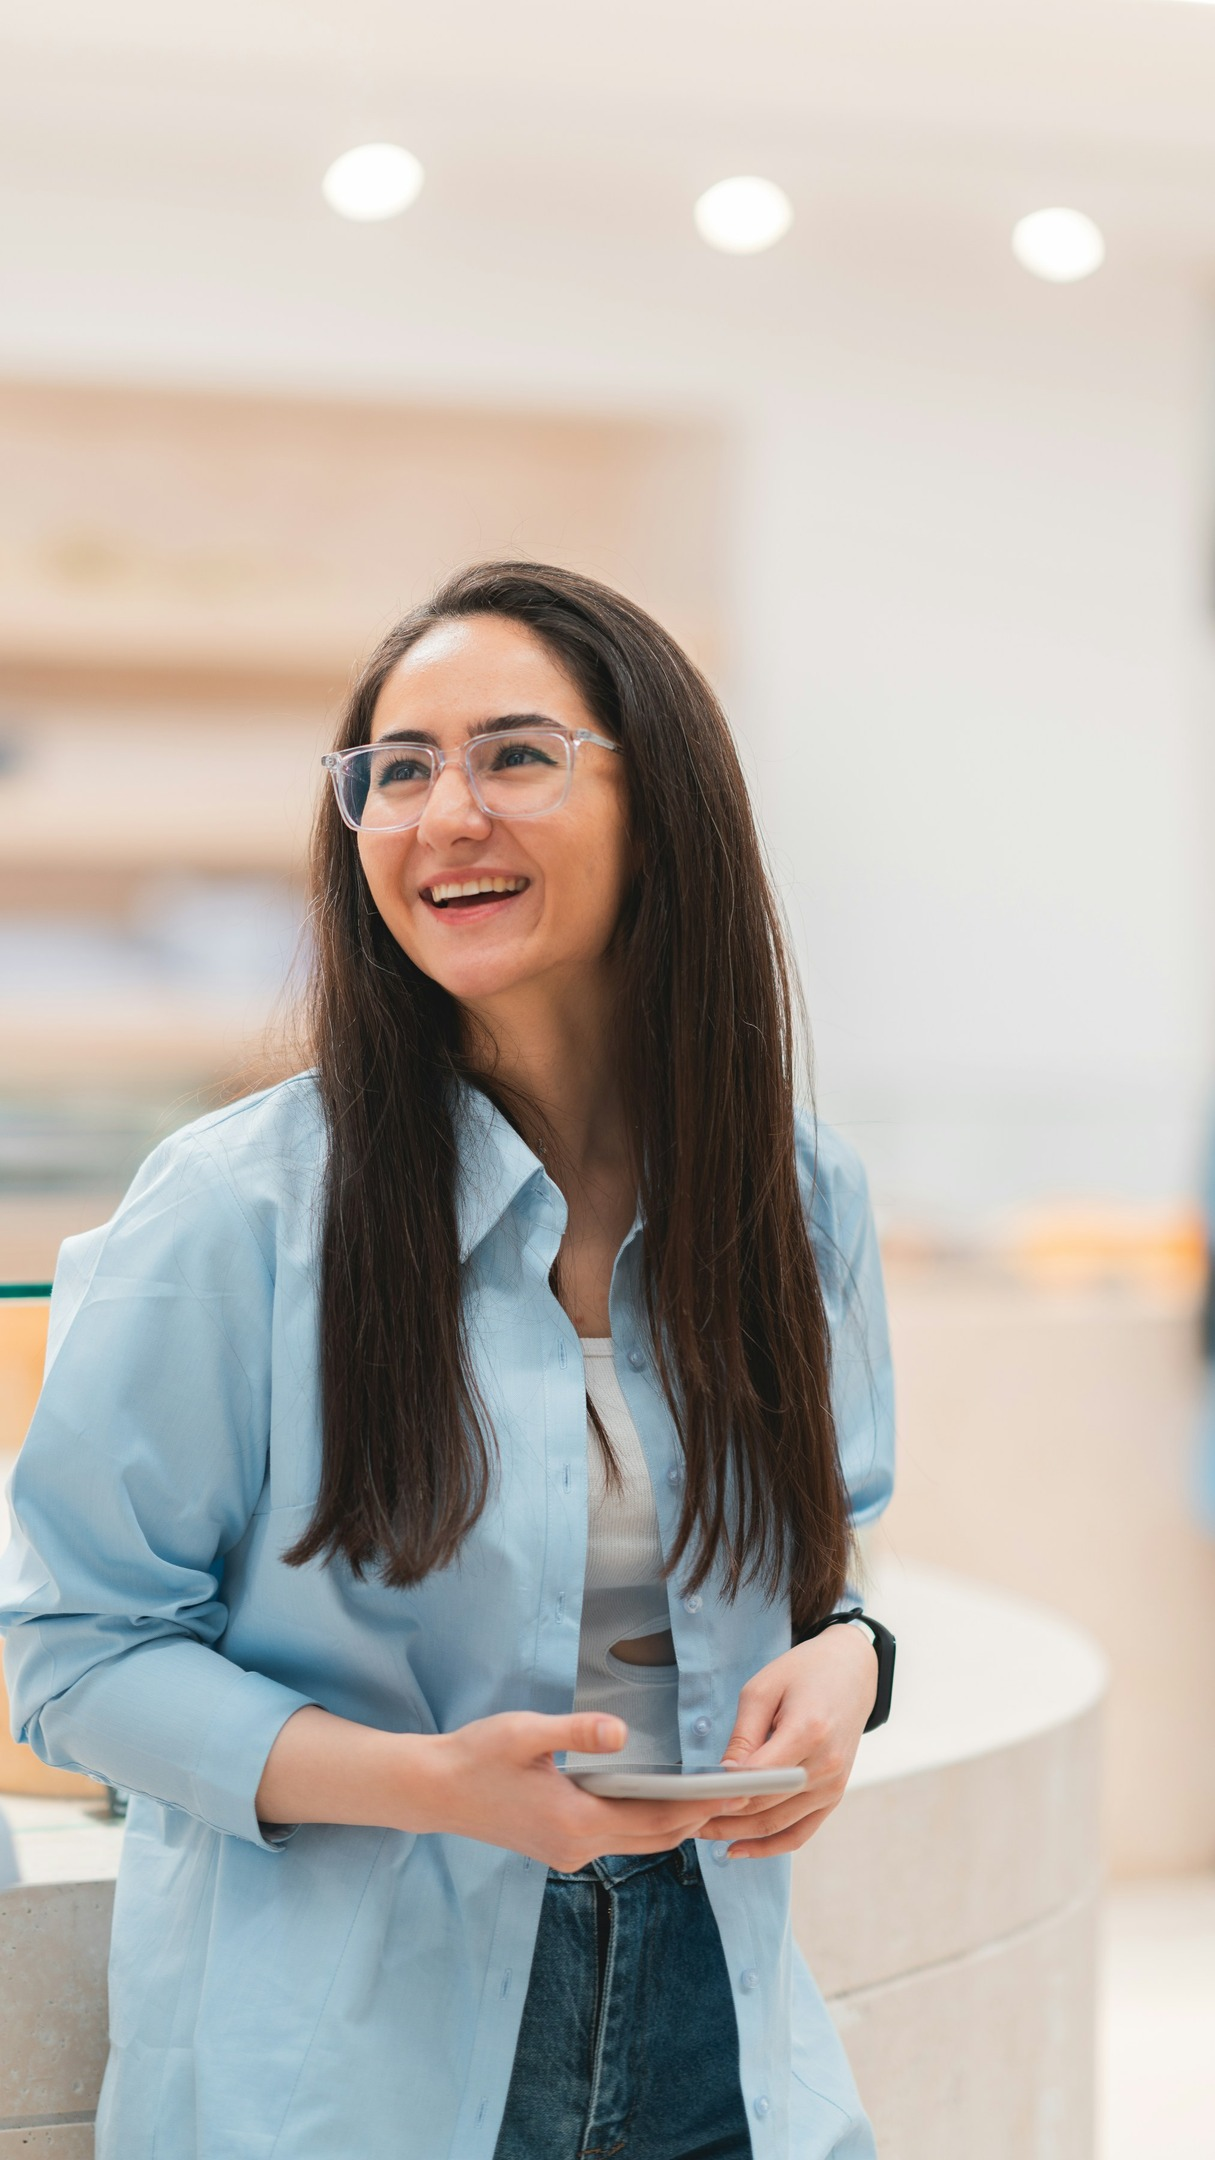
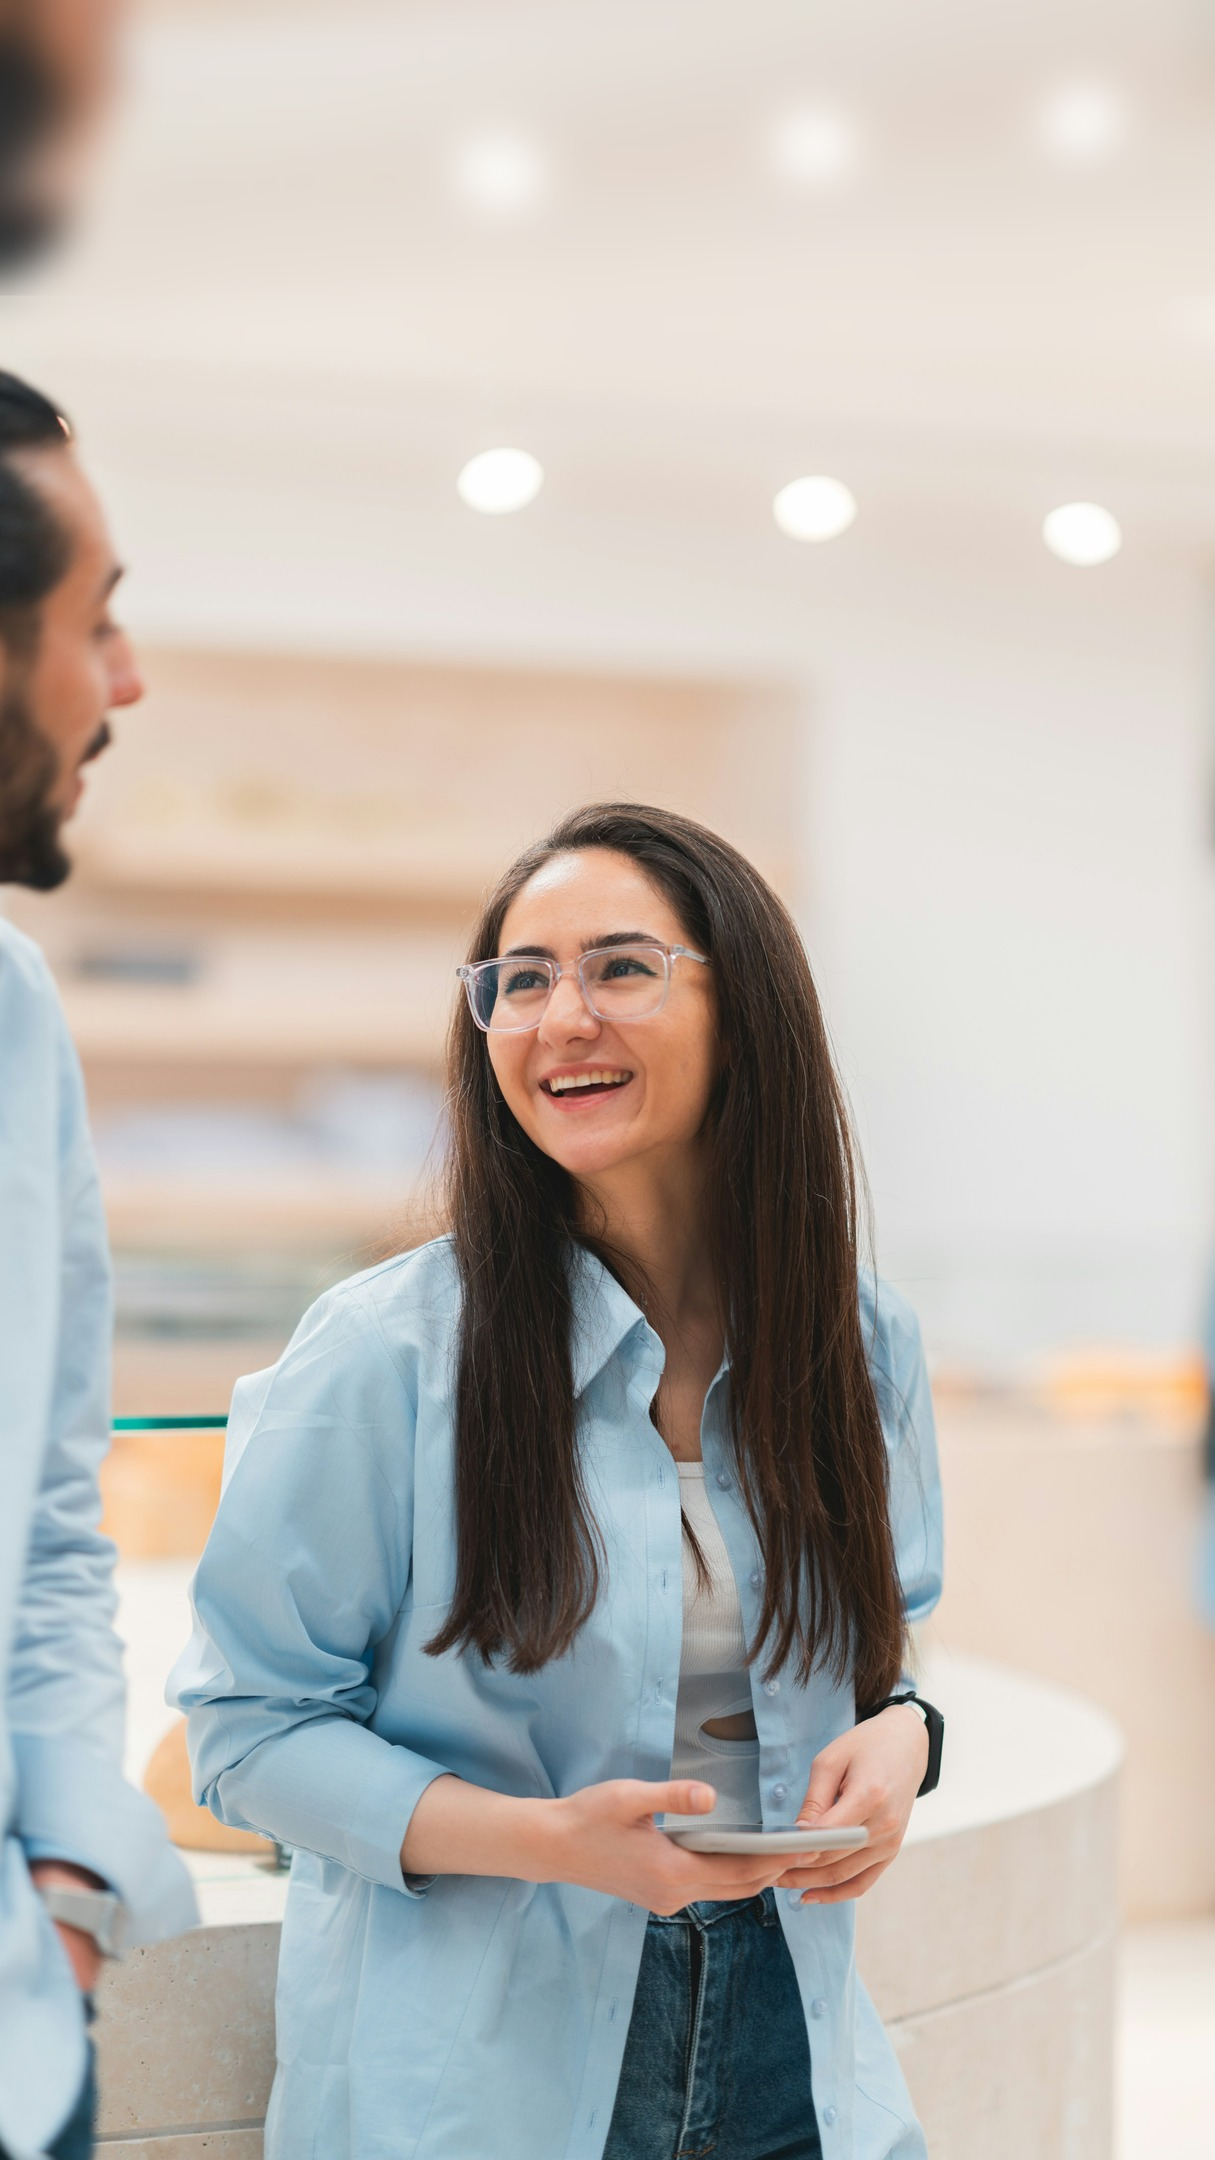
Loyalty reel (photo cut): headroom on the counter still; rename sample customer to Ananya
Claude-Session: https://claude.ai/code/session_01Xqmcc2PiW2fgt6JyzS5U1Y

diff --git a/videos/loyalty-evolution-reel/assets/MANIFEST.md b/videos/loyalty-evolution-reel/assets/MANIFEST.md
@@ -98,4 +98,6 @@ The photo version of this reel (v4, commit 9f7c8a3, delivered as "loyalty-evolut
 | stills/genz/in-friends.jpg | G · "Cafés remembered birthdays" (two friends at a celebration) | https://unsplash.com/photos/MfxGemi_An4 | Skytech Aviation (New Delhi) |
 | stills/genz/in-notice.jpg | O · "Now they notice" (smiling at the phone in a café; bottle label blurred) | https://unsplash.com/photos/T90gWliuCQQ | Airam Dato-on |
 
-Rebuild: `git worktree add ../v4 9f7c8a3`, copy `stills/genz/in-*.jpg` over its `assets/stills/`, then `npx hyperframes@0.8.139 render`.
+`in-counter.jpg` has soft blurred headroom added above the photo so the face sits below the profile card. The sample customer is renamed from Aarav to Ananya (same "AM" initials) to match the people now shown.
+
+Rebuild: `git worktree add ../v4 9f7c8a3`, copy `stills/genz/in-*.jpg` over its `assets/stills/`, run `sed -i "s/Aarav/Ananya/g" index.html`, then `npx hyperframes@0.8.139 render` and master the audio to -14 LUFS.
